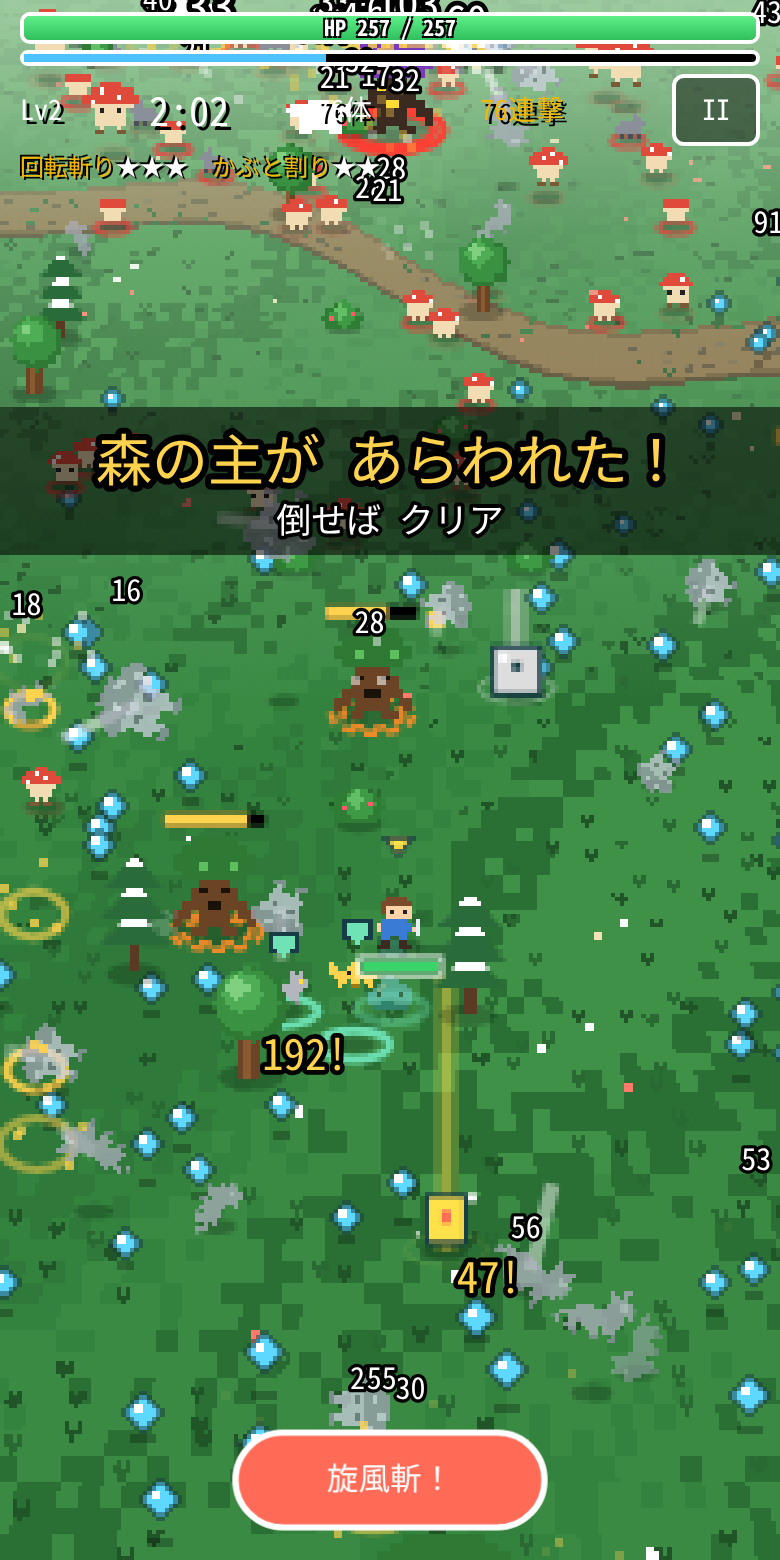
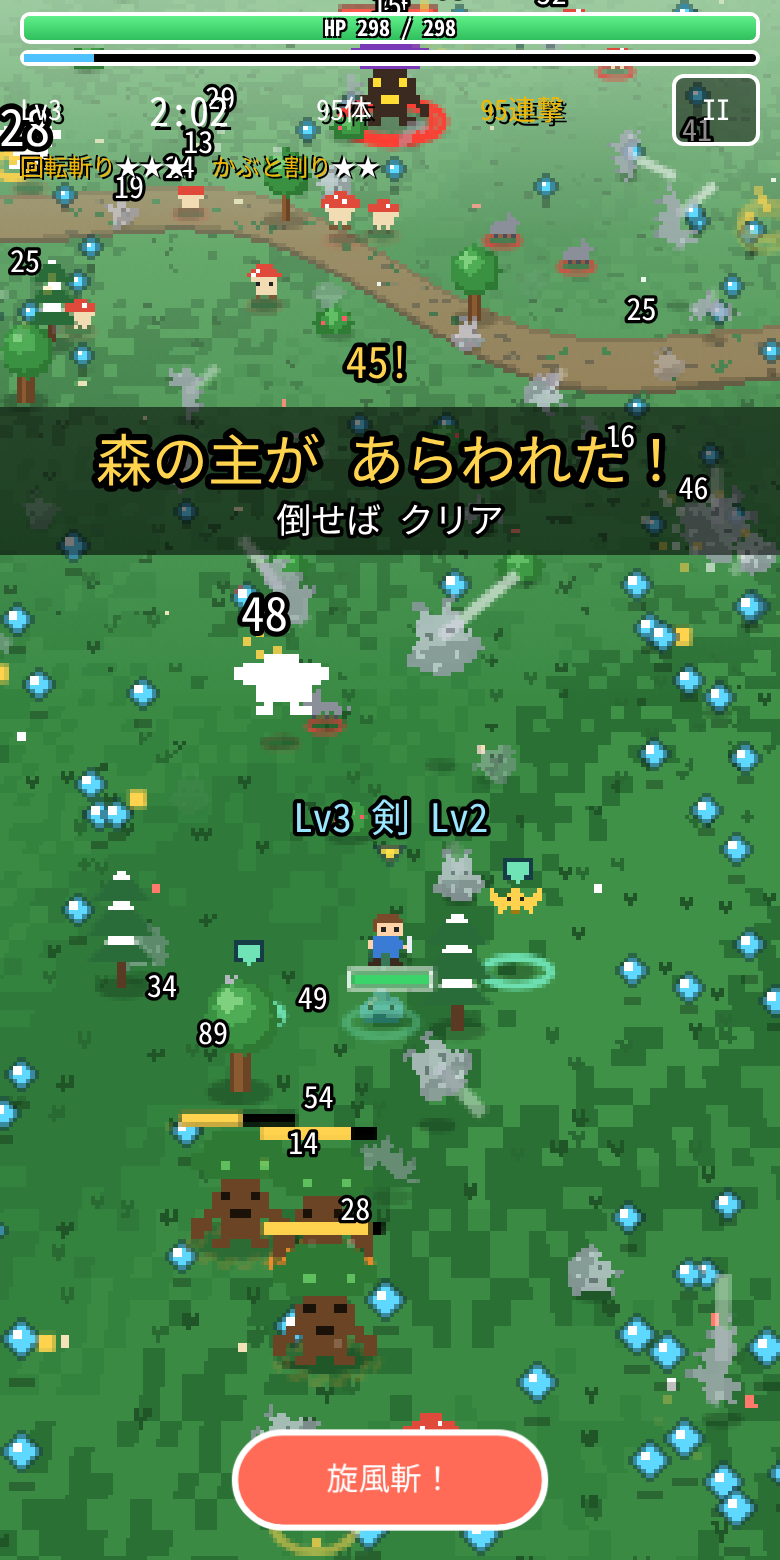
紹介ページの戦闘画像を砂漠・敵が吹っ飛ぶ場面に
Claude-Session: https://claude.ai/code/session_01Nw89DTUZgyNiroyHWTfm5y

diff --git a/tools/shots.py b/tools/shots.py
@@ -22,7 +22,8 @@ async def main():
             await pg.evaluate("c=>PQ3.ev(c)","(()=>{for(let i=0;i<6;i++)SV.inv.push(makeItem(1));recommendEq();"+js+"})()");await pg.wait_for_timeout(200)
         async def shot(name):
             await pg.evaluate("document.querySelectorAll('.toast').forEach(t=>t.remove())");await pg.screenshot(path=OUT+'/'+name);print(name)
-        await fresh("closeModal();startRun()");await pg.wait_for_timeout(9000);await shot('battle.png')
+        await fresh("closeModal();SV.opt.nums='crit';SV.sel={st:3,rd:1};startRun();R.t=85");await pg.wait_for_timeout(6000)
+        await pg.evaluate("PQ3.ev('R.jg=1;jobSkill()')");await pg.wait_for_timeout(260);await shot('battle.png')
         await fresh("closeModal();SV.sel={st:1,rd:1};startRun();R.t=116");await pg.wait_for_timeout(7000);await shot('boss.png')
         await fresh("""SV.clear=[3,3,2,2,2,1];const it=makeItem(0,{r:3,slot:'w',wt:'sword'});it.lg='wdbl';it.set='kensei';it.afx.forEach((a,i)=>a.q=[.97,.88,.95,.99][i]||.9);it.ref=4;SV.inv.unshift(it);SV.eq.w=it.id;SV.want={dmg:1};closeModal();TAB='gear';renderCamp();itemModal(it.id,'')""")
         await pg.wait_for_timeout(300);await shot('gear.png')
